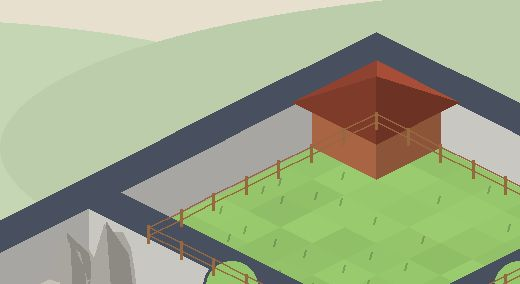
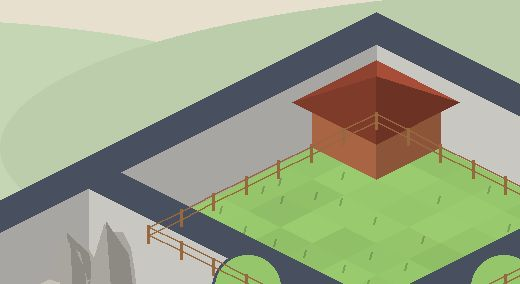
feat(garden): items and animals sit on their tiles with contact shadows; water items ripple; moon gates three tiles wide
Grounding: sprite bases sink to the front half of the tile (2x2 to the big
diamond's front), the flat ellipse becomes a tight radial contact shadow,
water-only items get a ripple ring instead of a shadow, rimmed ponds may be
placed in water too. Gates: every moon gate is now three tiles with a
ground-touching hole (blockout WALL_H 2.2, hole radius 1.1 tileH; occlusion
geometry follows). The painting still shows the old gates until Codex
repaints from the new 3:2 blockout.

Claude-Session: https://claude.ai/code/session_01CX9A8LkVQKcNnTEsxo35Fv

Changed region(s): [[0.0, 0.0282, 1.0, 1.0], [0.7692, 0.7887, 1.0, 1.0]]

diff --git a/miniprogram/utils/garden-view.js b/miniprogram/utils/garden-view.js
@@ -8,8 +8,10 @@ const { ANIMAL_INFO } = require('./animals')
 const SIZE_SCALE = { s: 0.8, m: 1.0, l: 1.3 }
 // 2×2 大件的宽度（相对格子宽度）
 const FOOT2_SCALE = 2.2
-// 脚下影子：宽是图宽的 0.7，扁椭圆
-const SHADOW_RATIO = 0.7
+// 脚下的接触阴影：宽是图宽的 0.55、很扁，紧贴底边（椭圆再大就像悬空）
+const SHADOW_RATIO = 0.55
+// 图底边比格子中心再往下多少（格高）：物件的底座要盖住菱形的前半，才像长在地里；2×2 的按四格的大菱形算
+const SINK = { 1: 0.42, 2: 0.9 }
 
 // 物件的落点：1 格的在格子中心，2×2 的在四格中间（正好是左前角那格的顶点）；y 是图底边（比落点再往下一点，像踩在地上）
 function itemAnchor(p, L) {
@@ -17,13 +19,13 @@ function itemAnchor(p, L) {
   const foot = item && item.foot === 2 ? 2 : 1
   const width = L.tileW * (foot === 2 ? FOOT2_SCALE : SIZE_SCALE[item ? item.size : 'm'])
   const base = foot === 2 ? tileTop(p.c, p.r, L) : tileCenter(p.c, p.r, L)
-  return { x: base.x, y: base.y + L.tileH * 0.18 * foot, width, foot }
+  return { x: base.x, y: base.y + L.tileH * SINK[foot], width, foot }
 }
 
 // 影子的位置（x、y 是图底边中点，和 itemAnchor 一样的坐标系）
 function shadowOf(x, y, width, L) {
   const w = width * SHADOW_RATIO
-  const h = w / 4
+  const h = w / 3
   return { left: x - w / 2, bottom: L.height - y - h / 2, width: w, height: h }
 }
 
@@ -43,6 +45,8 @@ function buildScene(placed, L) {
     .filter((x) => x.item)
     .map(({ p, item }) => {
       const a = itemAnchor(p, L)
+      // 只能放水里的东西（荷花丛、锦鲤群…）：没有影子，脚下一圈涟漪
+      const water = Array.isArray(item.ground) && item.ground.length === 1 && item.ground[0] === 'water'
       return {
         uid: p.uid,
         itemId: p.itemId,
@@ -50,12 +54,14 @@ function buildScene(placed, L) {
         r: p.r,
         foot: a.foot,
         flip: !!p.flip,
+        water,
         name: item.name,
         image: itemImage(item.id),
         width: a.width,
         left: a.x - a.width / 2,
         bottom: L.height - a.y,
-        shadow: shadowOf(a.x, a.y, a.width, L),
+        shadow: water ? null : shadowOf(a.x, a.y, a.width, L),
+        ripple: water ? { left: a.x - a.width * 0.45, bottom: L.height - a.y - a.width * 0.08, width: a.width * 0.9, height: a.width * 0.22 } : null,
         z: (p.c + p.r) * 10 + p.c,
       }
     })

diff --git a/cloudfunctions/api/lib/shared/estate.js b/cloudfunctions/api/lib/shared/estate.js
@@ -72,23 +72,23 @@ const SHELL = [
   { area: 'back', kind: 'water', what: 'stream', rect: [26, 8, 27, 9] },
 ]
 
-// 月亮门（两格宽），a、b 是它连着的两个院子
+// 月亮门（三格宽，洞开得大），a、b 是它连着的两个院子
 const GATES = [
-  { a: 'front', b: 'main', tiles: [[13, 18], [14, 18]] },
-  { a: 'front', b: 'orchard', tiles: [[9, 22], [9, 23]] },
-  { a: 'front', b: 'flower', tiles: [[18, 22], [18, 23]] },
-  { a: 'main', b: 'bamboo', tiles: [[9, 13], [9, 14]] },
-  { a: 'main', b: 'pond', tiles: [[18, 13], [18, 14]] },
-  { a: 'bamboo', b: 'orchard', tiles: [[4, 18], [5, 18]] },
-  { a: 'bamboo', b: 'farm', tiles: [[4, 9], [5, 9]] },
-  { a: 'pond', b: 'flower', tiles: [[22, 18], [23, 18]] },
-  { a: 'pond', b: 'tea', tiles: [[27, 13], [27, 14]] },
-  { a: 'pond', b: 'back', tiles: [[22, 9], [23, 9]] },
-  { a: 'flower', b: 'veg', tiles: [[27, 22], [27, 23]] },
-  { a: 'tea', b: 'veg', tiles: [[31, 18], [32, 18]] },
-  { a: 'tea', b: 'spring', tiles: [[31, 9], [32, 9]] },
-  { a: 'back', b: 'farm', tiles: [[9, 4], [9, 5]] },
-  { a: 'back', b: 'spring', tiles: [[27, 4], [27, 5]] },
+  { a: 'front', b: 'main', tiles: [[13, 18], [14, 18], [15, 18]] },
+  { a: 'front', b: 'orchard', tiles: [[9, 22], [9, 23], [9, 24]] },
+  { a: 'front', b: 'flower', tiles: [[18, 22], [18, 23], [18, 24]] },
+  { a: 'main', b: 'bamboo', tiles: [[9, 13], [9, 14], [9, 15]] },
+  { a: 'main', b: 'pond', tiles: [[18, 13], [18, 14], [18, 15]] },
+  { a: 'bamboo', b: 'orchard', tiles: [[4, 18], [5, 18], [6, 18]] },
+  { a: 'bamboo', b: 'farm', tiles: [[4, 9], [5, 9], [6, 9]] },
+  { a: 'pond', b: 'flower', tiles: [[22, 18], [23, 18], [24, 18]] },
+  { a: 'pond', b: 'tea', tiles: [[27, 13], [27, 14], [27, 15]] },
+  { a: 'pond', b: 'back', tiles: [[22, 9], [23, 9], [24, 9]] },
+  { a: 'flower', b: 'veg', tiles: [[27, 22], [27, 23], [27, 24]] },
+  { a: 'tea', b: 'veg', tiles: [[31, 18], [32, 18], [33, 18]] },
+  { a: 'tea', b: 'spring', tiles: [[31, 9], [32, 9], [33, 9]] },
+  { a: 'back', b: 'farm', tiles: [[9, 4], [9, 5], [9, 6]] },
+  { a: 'back', b: 'spring', tiles: [[27, 4], [27, 5], [27, 6]] },
 ]
 // 外墙上的大门：新住户从这里进来
 const DOOR = [[13, 27], [14, 27]]

diff --git a/miniprogram/utils/shared/estate.js b/miniprogram/utils/shared/estate.js
@@ -72,23 +72,23 @@ const SHELL = [
   { area: 'back', kind: 'water', what: 'stream', rect: [26, 8, 27, 9] },
 ]
 
-// 月亮门（两格宽），a、b 是它连着的两个院子
+// 月亮门（三格宽，洞开得大），a、b 是它连着的两个院子
 const GATES = [
-  { a: 'front', b: 'main', tiles: [[13, 18], [14, 18]] },
-  { a: 'front', b: 'orchard', tiles: [[9, 22], [9, 23]] },
-  { a: 'front', b: 'flower', tiles: [[18, 22], [18, 23]] },
-  { a: 'main', b: 'bamboo', tiles: [[9, 13], [9, 14]] },
-  { a: 'main', b: 'pond', tiles: [[18, 13], [18, 14]] },
-  { a: 'bamboo', b: 'orchard', tiles: [[4, 18], [5, 18]] },
-  { a: 'bamboo', b: 'farm', tiles: [[4, 9], [5, 9]] },
-  { a: 'pond', b: 'flower', tiles: [[22, 18], [23, 18]] },
-  { a: 'pond', b: 'tea', tiles: [[27, 13], [27, 14]] },
-  { a: 'pond', b: 'back', tiles: [[22, 9], [23, 9]] },
-  { a: 'flower', b: 'veg', tiles: [[27, 22], [27, 23]] },
-  { a: 'tea', b: 'veg', tiles: [[31, 18], [32, 18]] },
-  { a: 'tea', b: 'spring', tiles: [[31, 9], [32, 9]] },
-  { a: 'back', b: 'farm', tiles: [[9, 4], [9, 5]] },
-  { a: 'back', b: 'spring', tiles: [[27, 4], [27, 5]] },
+  { a: 'front', b: 'main', tiles: [[13, 18], [14, 18], [15, 18]] },
+  { a: 'front', b: 'orchard', tiles: [[9, 22], [9, 23], [9, 24]] },
+  { a: 'front', b: 'flower', tiles: [[18, 22], [18, 23], [18, 24]] },
+  { a: 'main', b: 'bamboo', tiles: [[9, 13], [9, 14], [9, 15]] },
+  { a: 'main', b: 'pond', tiles: [[18, 13], [18, 14], [18, 15]] },
+  { a: 'bamboo', b: 'orchard', tiles: [[4, 18], [5, 18], [6, 18]] },
+  { a: 'bamboo', b: 'farm', tiles: [[4, 9], [5, 9], [6, 9]] },
+  { a: 'pond', b: 'flower', tiles: [[22, 18], [23, 18], [24, 18]] },
+  { a: 'pond', b: 'tea', tiles: [[27, 13], [27, 14], [27, 15]] },
+  { a: 'pond', b: 'back', tiles: [[22, 9], [23, 9], [24, 9]] },
+  { a: 'flower', b: 'veg', tiles: [[27, 22], [27, 23], [27, 24]] },
+  { a: 'tea', b: 'veg', tiles: [[31, 18], [32, 18], [33, 18]] },
+  { a: 'tea', b: 'spring', tiles: [[31, 9], [32, 9], [33, 9]] },
+  { a: 'back', b: 'farm', tiles: [[9, 4], [9, 5], [9, 6]] },
+  { a: 'back', b: 'spring', tiles: [[27, 4], [27, 5], [27, 6]] },
 ]
 // 外墙上的大门：新住户从这里进来
 const DOOR = [[13, 27], [14, 27]]

diff --git a/miniprogram/utils/occlusion.js b/miniprogram/utils/occlusion.js
@@ -5,8 +5,9 @@
 const { GRID, SHELL, GATES, DOOR, tileInfo } = require('./shared/estate')
 const { tileTop } = require('./iso')
 
-const WALL_H = 1.6
-const GATE_HOLE = { up: 0.55, radius: 0.9 }
+const WALL_H = 2.2
+// 月亮门洞：半径（格高），洞底贴地
+const GATE_HOLE = { radius: 1.1 }
 const DOOR_H = WALL_H * 1.3
 // 建筑：h 墙身高、roof 屋顶高、over 屋檐出挑（格）、inset 比格子缩进多少（格）
 const BUILDINGS = {
@@ -128,10 +129,11 @@ function piece(key, c, r, poly, L, hole) {
   return { key, c, r, z: depthZ(c, r), poly: hole ? withHole(padded, hole) : padded, outer: padded, box, hole: !!hole }
 }
 
-// 两格门洞的中心（和白模一样：两格合起来的中心点）
+// 几格门洞合起来的中心点（和白模一样）
 function pairCenter(tiles, L) {
-  const [[c0, r0], [c1, r1]] = tiles
-  return tileTop((c0 + c1 + 1) / 2, (r0 + r1 + 1) / 2, L)
+  const cs = tiles.map((t) => t[0])
+  const rs = tiles.map((t) => t[1])
+  return tileTop((Math.min(...cs) + Math.max(...cs) + 1) / 2, (Math.min(...rs) + Math.max(...rs) + 1) / 2, L)
 }
 
 // 所有会挡人的东西，每块一个多边形（世界坐标 px）。按格宽缓存
@@ -149,11 +151,14 @@ function pieces(L) {
     }
   }
   GATES.forEach((g) => {
-    const [[c0, r0], [c1, r1]] = g.tiles
-    const front = c1 + r1 >= c0 + r0 ? [c1, r1] : [c0, r0]
+    const cs = g.tiles.map((t) => t[0])
+    const rs = g.tiles.map((t) => t[1])
+    const [c0, r0] = g.tiles[0]
+    const front = g.tiles.reduce((best, t) => (t[0] + t[1] > best[0] + best[1] ? t : best), g.tiles[0])
     const center = pairCenter(g.tiles, L)
-    const hole = circle(center.x, center.y - WALL_H * GATE_HOLE.up * L.tileH, GATE_HOLE.radius * L.tileH)
-    out.push(piece(`g${c0}-${r0}`, front[0], front[1], prism(Math.min(c0, c1), Math.min(r0, r1), Math.max(c0, c1) + 1, Math.max(r0, r1) + 1, WALL_H, L), L, hole))
+    const r = GATE_HOLE.radius * L.tileH
+    const hole = circle(center.x, center.y - r, r)
+    out.push(piece(`g${c0}-${r0}`, front[0], front[1], prism(Math.min(...cs), Math.min(...rs), Math.max(...cs) + 1, Math.max(...rs) + 1, WALL_H, L), L, hole))
   })
   {
     const [[c0, r0], [c1, r1]] = DOOR

diff --git a/test/garden-view.test.js b/test/garden-view.test.js
@@ -41,8 +41,8 @@ test('buildScene：按前后顺序排，后面的先画；底部对准格子', (
   assert.equal(panda.flip, false)
   assert.equal(panda.foot, 1)
   assert.ok(Math.abs(panda.shadow.left + panda.shadow.width / 2 - center.x) < 0.01)
-  assert.ok(Math.abs(panda.shadow.width - panda.width * 0.7) < 0.01)
-  assert.ok(Math.abs(panda.shadow.height - panda.shadow.width / 4) < 0.01)
+  assert.ok(Math.abs(panda.shadow.width - panda.width * 0.55) < 0.01)
+  assert.ok(Math.abs(panda.shadow.height - panda.shadow.width / 3) < 0.01)
   assert.ok(panda.shadow.bottom < panda.bottom && panda.shadow.bottom > panda.bottom - panda.shadow.height)
 })
 
@@ -95,13 +95,13 @@ test('buildScene：2×2 的大件画在四格中间、按 2.2 格宽，带转向
   assert.ok(Math.abs(big.width - L.tileW * FOOT2_SCALE) < 1e-9)
   const top = tileTop(3, 3, L)
   assert.ok(Math.abs(big.left + big.width / 2 - top.x) < 0.01)
-  assert.ok(Math.abs(big.bottom - (L.height - (top.y + L.tileH * 0.36))) < 0.01)
+  assert.ok(Math.abs(big.bottom - (L.height - (top.y + L.tileH * 0.9))) < 0.01)
   assert.equal(big.z, 63)
   const anchor = itemAnchor({ itemId: 'pavilion', c: 3, r: 3 }, L)
   assert.deepEqual([anchor.x, anchor.foot], [top.x, 2])
-  assert.ok(Math.abs(anchor.y - (top.y + L.tileH * 0.36)) < 1e-9)
+  assert.ok(Math.abs(anchor.y - (top.y + L.tileH * 0.9)) < 1e-9)
   const small = itemAnchor({ itemId: 'daisy', c: 3, r: 3 }, L)
   assert.deepEqual([small.x, small.width, small.foot], [tileCenter(3, 3, L).x, L.tileW * 0.8, 1])
   const shadow = shadowOf(100, 50, 40, L)
-  assert.deepEqual(shadow, { left: 100 - 14, bottom: L.height - 50 - 3.5, width: 28, height: 7 })
+  assert.deepEqual(shadow, { left: 100 - 11, bottom: L.height - 50 - 22 / 6, width: 22, height: 22 / 3 })
 })

diff --git a/test/garden-life.test.js b/test/garden-life.test.js
@@ -35,7 +35,7 @@ function tileOf(s) {
   for (let c = -1; c <= L.cols; c++) {
     for (let r = -1; r <= L.rows; r++) {
       const center = tileCenter(c, r, L)
-      if (Math.abs(center.x - x) < 0.01 && Math.abs(L.height - (center.y + L.tileH * 0.18) - s.bottom) < 0.01) return { c, r }
+      if (Math.abs(center.x - x) < 0.01 && Math.abs(L.height - (center.y + L.tileH * 0.35) - s.bottom) < 0.01) return { c, r }
     }
   }
   return null
@@ -77,7 +77,7 @@ test('一开始站在家附近的空格，图、大小、影子都对', () => {
   assert.ok(!(t.c === 2 && t.r === 2) && !(t.c === 0 && t.r === 0))
   assert.notDeepEqual(tileOf(sprites[1]), t)
   assert.equal(panda.action, 'idle')
-  assert.ok(Math.abs(panda.shadow.width - panda.width * 0.7) < 0.01)
+  assert.ok(Math.abs(panda.shadow.width - panda.width * 0.55) < 0.01)
   assert.ok(Math.abs(panda.shadow.left + panda.shadow.width / 2 - (panda.left + panda.width / 2)) < 0.01)
 })
 

diff --git a/miniprogram/utils/garden-life.js b/miniprogram/utils/garden-life.js
@@ -18,6 +18,8 @@ const TAP_MS = 600
 const HELLO_MS = 4000
 // 下水时露出的上半身比例（按动物本身算，不算图里头顶的空白）；气泡宽度是几格宽
 const WATER_LINE = 0.62
+// 脚底比格子中心往下多少（格高），和物件一样踩在菱形前半
+const ANIMAL_SINK = 0.35
 const BUBBLE_TILES = 5
 // 白天没事干时出门逛逛的概率
 const EXCURSION_CHANCE = 0.12
@@ -144,7 +146,7 @@ function createLife({
     } else {
       const center = tileCenter(a.c, a.r, L)
       x = center.x
-      y = center.y + L.tileH * 0.18
+      y = center.y + L.tileH * ANIMAL_SINK
       z = (a.c + a.r) * 10 + a.c + 5
     }
     // 下水时水面在身子的 62% 处，没有影子；气泡贴着头顶，别出花园左右边

diff --git a/test/garden.test.js b/test/garden.test.js
@@ -130,7 +130,7 @@ test('物件的地面和占格', () => {
   assert.deepEqual(itemById('cabbage').ground, ['soil', 'lawn'])
   assert.deepEqual(itemById('stool').ground, ['lawn', 'pave'])
   assert.deepEqual(itemById('pavilion').ground, ['lawn', 'pave'])
-  assert.deepEqual(itemById('koi_pond').ground, ['lawn'])
+  assert.deepEqual(itemById('koi_pond').ground, ['lawn', 'water'])
   assert.equal(itemById('pavilion').foot, 2)
   assert.equal(itemById('lotus_pond').foot, 2)
   assert.equal(itemById('daisy').foot, 1)

diff --git a/cloudfunctions/api/lib/shared/garden.js b/cloudfunctions/api/lib/shared/garden.js
@@ -97,8 +97,8 @@ const GROUNDS = {
   plant: ['lawn', 'soil'],
   veg: ['soil', 'lawn'],
   furniture: ['lawn', 'pave'],
-  // 自带石头池边的水景，摆草地上
-  scape: ['lawn'],
+  // 自带石头池边的水景：草地上摆，也能放进池塘里
+  scape: ['lawn', 'water'],
   water: ['water'],
 }
 const ITEM_CLASS = {

diff --git a/miniprogram/utils/shared/garden.js b/miniprogram/utils/shared/garden.js
@@ -97,8 +97,8 @@ const GROUNDS = {
   plant: ['lawn', 'soil'],
   veg: ['soil', 'lawn'],
   furniture: ['lawn', 'pave'],
-  // 自带石头池边的水景，摆草地上
-  scape: ['lawn'],
+  // 自带石头池边的水景：草地上摆，也能放进池塘里
+  scape: ['lawn', 'water'],
   water: ['water'],
 }
 const ITEM_CLASS = {

diff --git a/scripts/estate/blockout.py b/scripts/estate/blockout.py
@@ -33,7 +33,8 @@ COLORS = {
 }
 WALL = (240, 238, 232)
 WALL_TOP = (72, 80, 96)
-WALL_H = TH * 1.6
+WALL_H = TH * 2.2
+GATE_R = TH * 1.1  # 月亮门洞半径（洞底贴地：圆心高 = 半径）
 WOOD = (150, 104, 64)
 
 
@@ -200,16 +201,18 @@ def standing():
                 add(c + r, lambda d, c=c, r=r: (box(d, c, r, c + 1, r + 1, WALL_H, WALL), d.polygon(raised(quad(c, r, c + 1, r + 1), WALL_H), fill=WALL_TOP)))
     # 月亮门：两格墙中间开一个圆洞（洞里露出对面的地）
     for g in LAYOUT['gates']:
-        (c0, r0), (c1, r1) = g['tiles']
-        x, y = top((c0 + c1 + 1) / 2, (r0 + r1 + 1) / 2)
-        rr = TH * 0.9
+        tiles = g['tiles']
+        cs = [t[0] for t in tiles]
+        rs = [t[1] for t in tiles]
+        x, y = top((min(cs) + max(cs) + 1) / 2, (min(rs) + max(rs) + 1) / 2)
+        rr = GATE_R
 
-        def gate(d, tiles=g['tiles'], x=x, y=y, rr=rr):
+        def gate(d, tiles=tiles, x=x, y=y, rr=rr):
             for c, r in tiles:
                 box(d, c, r, c + 1, r + 1, WALL_H, WALL)
                 d.polygon(raised(quad(c, r, c + 1, r + 1), WALL_H), fill=WALL_TOP)
-            d.ellipse([x - rr, y - WALL_H * 0.55 - rr, x + rr, y - WALL_H * 0.55 + rr], fill=COLORS['lawn'], outline=WALL_TOP, width=3)
-        add(max(c0 + r0, c1 + r1) + 0.1, gate)
+            d.ellipse([x - rr, y - rr - rr, x + rr, y], fill=COLORS['lawn'], outline=WALL_TOP, width=3)
+        add(max(c + r for c, r in tiles) + 0.1, gate)
     # 大门：比墙高一点的门楼，朱红双开门
     (c0, r0), (c1, r1) = LAYOUT['door']
     x, y = top((c0 + c1 + 1) / 2, (r0 + r1 + 1) / 2)
